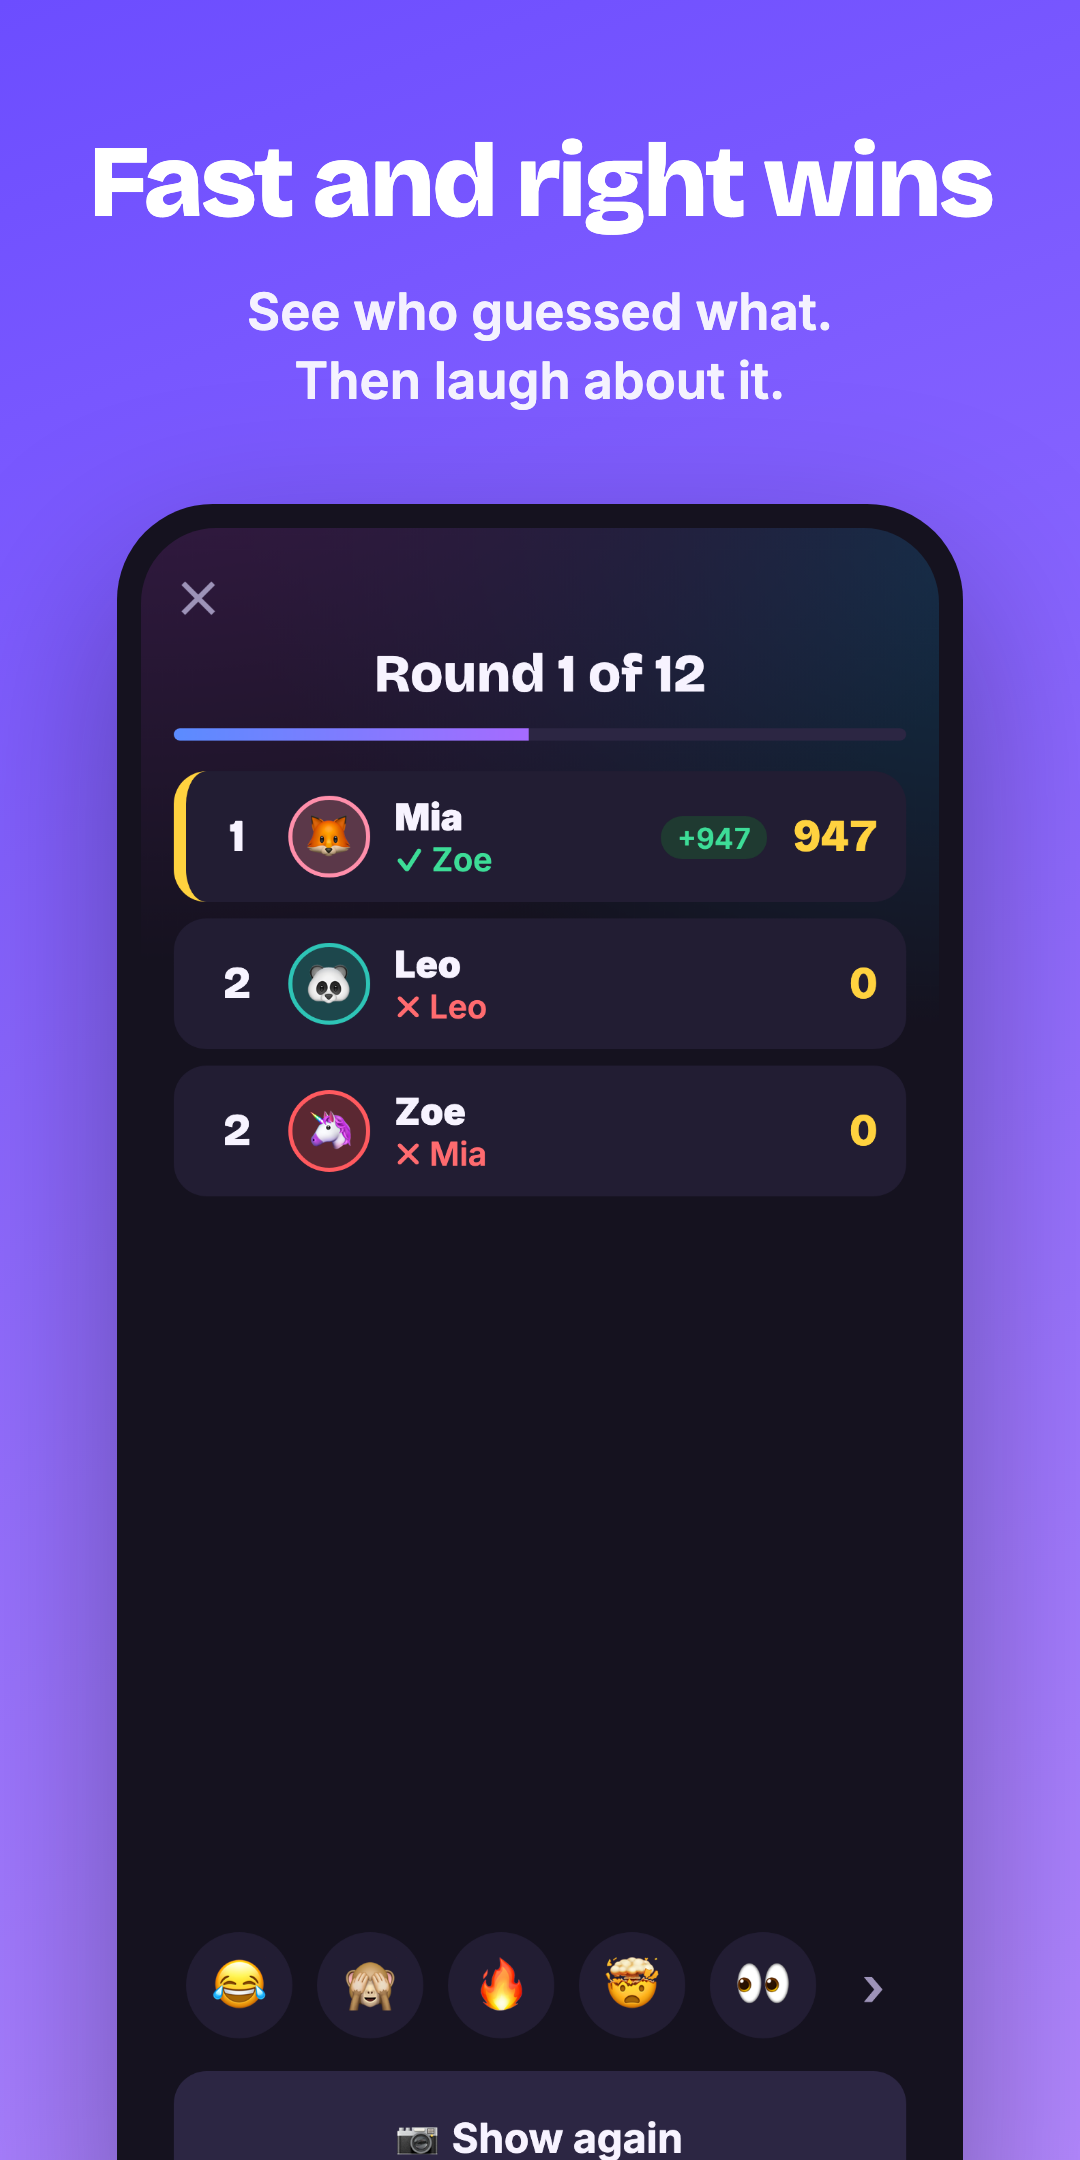
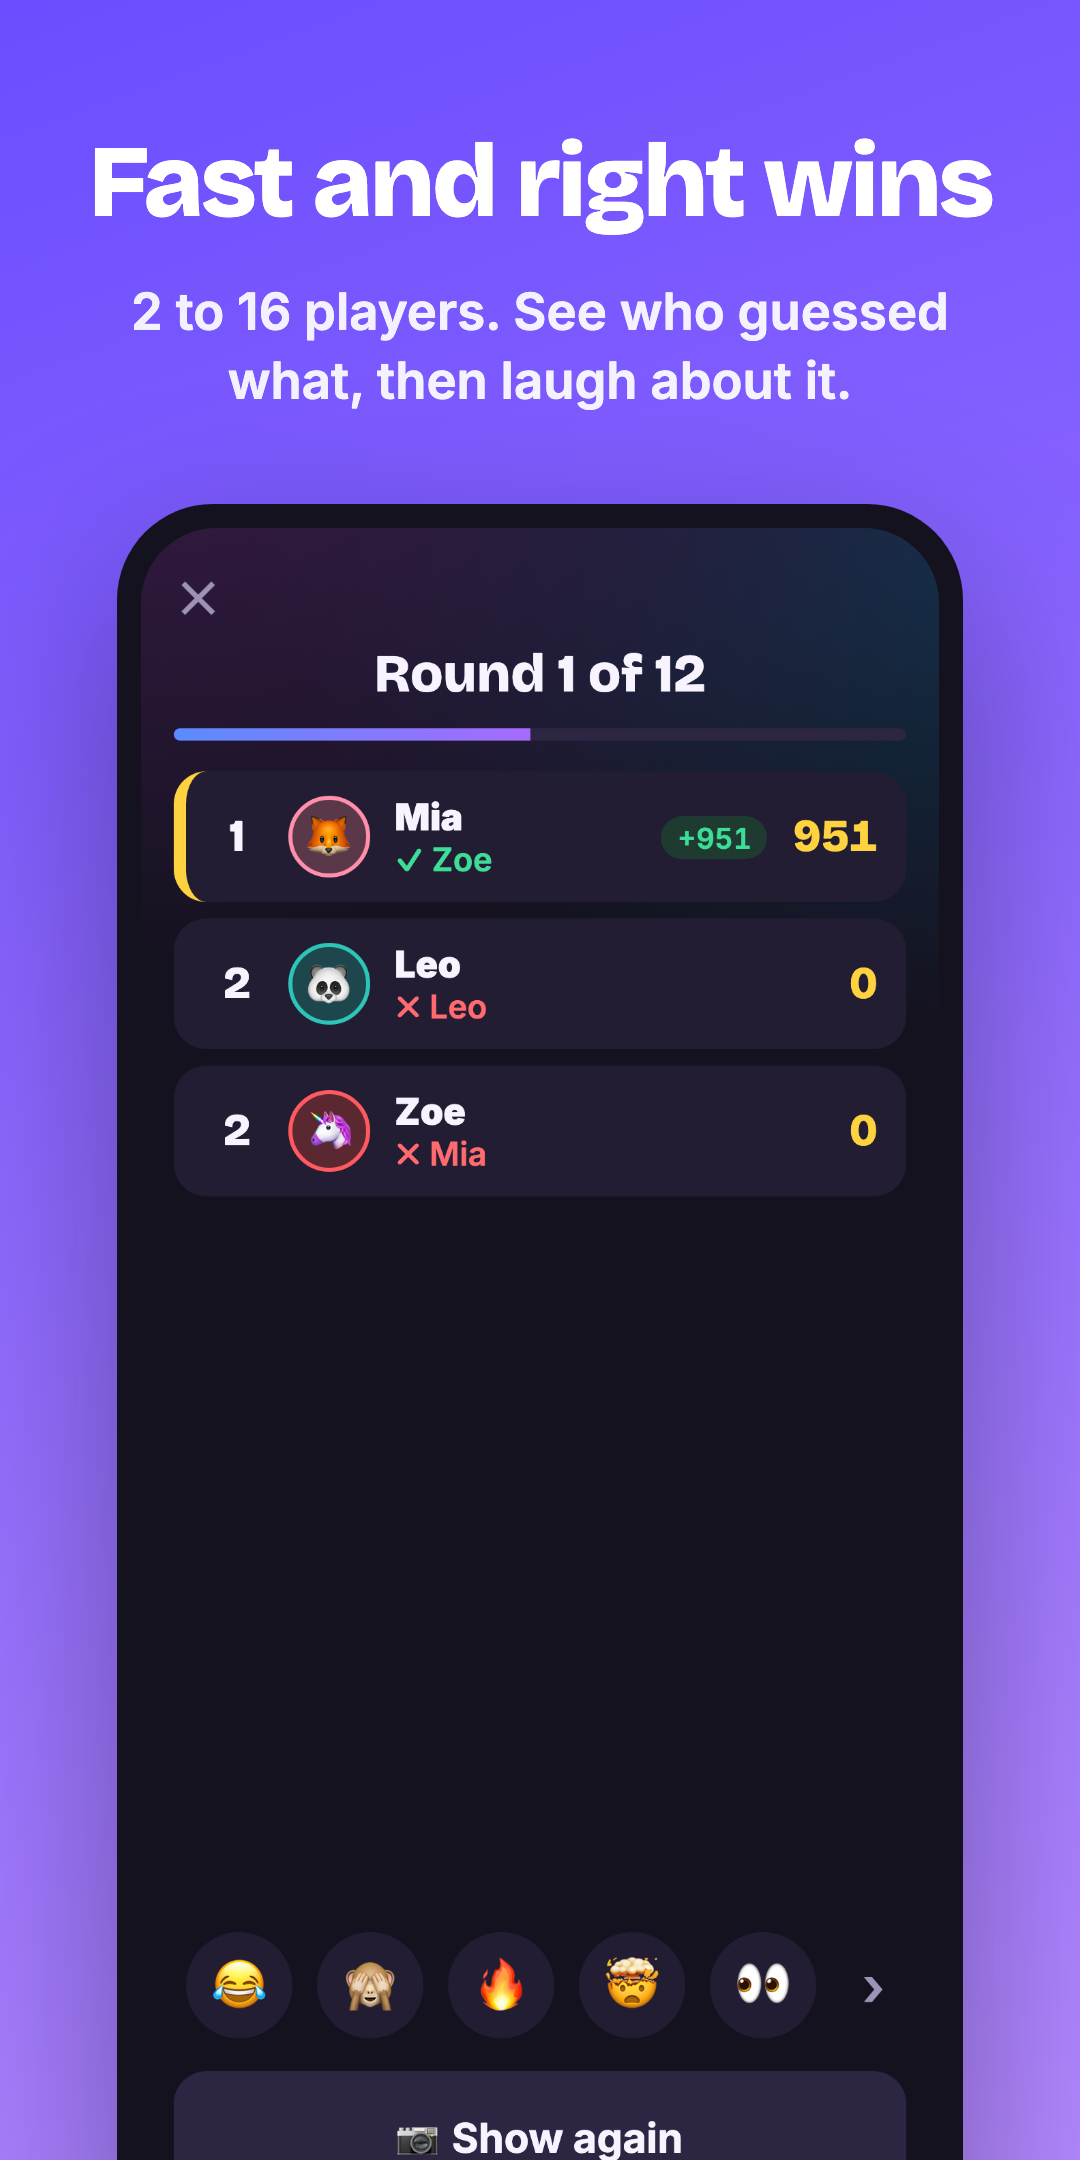
chore(store): the words players search for, honest texts, new screenshots, Gameplay Content in the privacy label
Search (researched from the App Store's search suggestions and who ranks for them): the
wide searches ("party games with friends", "group games", "game night") belong to apps
with thousands of ratings; the narrow ones a new app can lead are "photo party game",
"photo guessing game", "camera roll game" and "whose photo".

- iPhone: subtitle "Camera roll guessing game", keywords that combine with the name into
  the searches players make (friends, group, adults, night, person, play, multiplayer,
  icebreaker, phone, local...), promotional text without the "best" claim; the first
  review note no longer names test players or rounds, so it stays true for any recording.
- Android: short description "Photo guessing game for friends: guess whose phone each
  random photo came from!".
- Both: the description says "camera roll", "game nights" and "in person" where they read
  naturally, and "a guessing game for the whole table" instead of "the funniest"; the first
  and third screenshot captions say "camera rolls" and the player count (built from the
  config); the screenshots are redrawn from the 1.0.5 app. The search reasoning is in the
  header of store/android_ios_listing.js. Never another app's name.
- Privacy: the answers, points and reactions the room keeps for the game are now declared,
  as Apple's "Gameplay Content" (privacy label, ticked in App Store Connect, and the iOS
  privacy manifest, which goes into the next build) and Google's "App activity: Other
[…]

Changed region(s): [[0.1222, 0.1241, 0.8861, 0.1861], [0.7639, 0.3722, 0.825, 0.4032]]

diff --git a/store/ios_listing.js b/store/ios_listing.js
@@ -22,7 +22,7 @@
  */
 import { SERVER, TIMING } from '../web/shared/config.js';
 
-const promotionalText = 'Tonight’s best party game is already on your phones. Random photos from everyone’s camera roll, one question: whose is it?';
+const promotionalText = 'Your next party game is already on your phones: random photos from everyone’s camera roll, and one question. Whose is it?';
 
 /** One or two plain sentences about what players notice (Apple takes it only for updates). */
 const whatsNew = 'Up to 16 players and over 130 avatars. Yes is instant: your photos are sent in the background, and the 3, 2, 1 starts once every phone has the first photo. The first game asks “Is everyone here?”, and a player whose phone goes offline stays in the game, shown in red, until anyone removes them. A swapped photo turns over like a card, the leaderboard shows who overtakes whom, the scores stay hidden in the final round, and the podium reveals the winners one by one. A flagged photo is hidden for everyone at once, and the new setting “Own photo” sets the points for guessing your own photo.';
@@ -42,7 +42,7 @@ Offensive nicknames are replaced. Everyone accepts the terms (16+) before playin
 Questions and reports: whoshotit.info@gmail.com`;
 
 /** Apple's questions for new apps, answered in its order, then the test steps. */
-const reviewNotes = `1. Screen recording: attached. It was made on an iPhone with this build and starts with opening the app. It shows a whole game: creating a game, allowing photo access, removing a player, reporting a photo and the final scores. (The terms screen of the first launch, which everyone accepts before playing, was accepted just before the recording.) Leo, Max and Zoe are our own test players, run on a computer with drawn sample pictures, so one person could record a full game. The video is shortened in a few places (waiting time, iOS pop ups, rounds 6 to 11).
+const reviewNotes = `1. Screen recording: attached. It was made on an iPhone with this build and starts with opening the app. It shows a whole game: creating a game, allowing photo access, removing a player, reporting a photo and the final scores. The other players are our own test players, run on a computer with drawn sample pictures, so one person could record a whole game. Waiting time and some rounds are cut out.
 
 2. Purpose and audience: Who Shot It? is a party game for friends aged 16 and older who meet in person. Each player gets a few random photos from their own phone and decides whether to play with them. Then the photos appear one by one on every phone, and everyone guesses whose photo it is. It gives a group something fun to do together with the photos they already have. Free, no account, no ads, no purchases.
 
@@ -57,15 +57,19 @@ const reviewNotes = `1. Screen recording: attached. It was made on an iPhone wit
 ${howToTest}`;
 
 export default {
-  subtitle: 'Guess whose photo it is',
+  subtitle: 'Camera roll guessing game',
   /** Shown above the description; can change any time without a review. */
   promotionalText,
   /**
    * Search words, never shown. Commas without spaces (a space counts toward the limit).
    * Words of the name and subtitle count already, so none is repeated, and never other
-   * apps' names or trademarks (App Review guideline 2.3.7).
+   * apps' names or trademarks (App Review guideline 2.3.7). The store combines every word
+   * of the name, subtitle and keywords, so single words cover whole searches: "party games
+   * with friends", "group games for adults", "game night", "games to play in person",
+   * "local multiplayer", "icebreaker games", "guess whose photo" (why these: the search
+   * note in store/android_ios_listing.js).
    */
-  keywords: 'memories,selfie,friends,group,camera roll,gallery,pictures,quiz,trivia,multiplayer,funny,icebreaker',
+  keywords: 'friends,group,guess,whose,adults,night,person,play,multiplayer,icebreaker,phone,fun,pics,quiz,local',
   whatsNew,
   developer: 'Nils Plum',
   /** The imprint, which also names every way to reach us. */
@@ -77,12 +81,13 @@ export default {
    * The privacy label ("App Privacy"), by section of the page and Apple's data category,
    * with the data types ticked in App Store Connect: "Yes, we collect data", each type for
    * App Functionality only, not linked to the player, no tracking. The nickname and the
-   * random per-game key are Apple's "User ID".
+   * random per-game key are Apple's "User ID"; the answers, points and reactions the room
+   * keeps for the game are its "Gameplay Content".
    */
   privacy: {
     tracking: {},
     linked: {},
-    notLinked: { 'User Content': ['Photos or Videos'], Identifiers: ['User ID'] },
+    notLinked: { 'User Content': ['Photos or Videos', 'Gameplay Content'], Identifiers: ['User ID'] },
   },
   /** Seen only by Apple's reviewers, for App Review and TestFlight's beta review. */
   reviewContact: { firstName: 'Nils', lastName: 'Plum', phone: '+49 177 2438912', email: 'whoshotit.info@gmail.com' },

diff --git a/store/android_ios_listing.js b/store/android_ios_listing.js
@@ -30,22 +30,34 @@
  * the description because the first question anyone has about this game is "who sees my
  * photos?". The imprint link at the end keeps the imprint one tap from the store page
  * (German law), on Android too, where the page links only the website.
+ *
+ * Search: the words are the ones players type (the App Store's search suggestions and who
+ * ranks for them, November 2026). Wide searches like "party games with friends", "group
+ * games", "guessing games", "game night" or "games to play with friends in person" belong
+ * to apps with thousands of ratings; the narrow ones a new app can lead are "photo party
+ * game", "photo guessing game", "camera roll game" and "whose photo". So the name holds
+ * "Photo Party Game", the iPhone subtitle "Camera roll guessing game", and the texts use
+ * the wide words where they read naturally. The iPhone store searches only the name, the
+ * subtitle and the keywords (`store/ios_listing.js`); Google Play searches the name, the
+ * short description and this description, so these words matter there, never stuffed.
+ * Another app's name ("Photo Roulette", "Heads Up", "Guess Who") never appears: both stores
+ * forbid it, and it would be a trademark problem.
  */
 import { APP, LIMITS, SERVER } from '../web/shared/config.js';
 
 const description = `Your camera roll is full of stories. Time to play them.
 
-Who Shot It? turns the photos on your phones into the funniest guessing game at the table. Everyone gets a few random photos from their own phone. Then one photo after another pops up on every screen, and you race to tap whose phone it came from.
+Who Shot It? turns the photos on your phones into a guessing game for the whole table. Everyone gets a few random photos from their own camera roll. Then one photo after another pops up on every screen, and you race to tap whose phone it came from.
 
 Was that blurry pizza at 2 a.m. Lena’s? Is the 400th cat picture Ben’s? Guess fast, guess right, and the points are yours. Then the reveal. Friendships have survived worse. Probably.
 
 HOW IT WORKS
-1. One person creates a game. Friends join with a four letter code.
+1. One person creates a game. Friends join with a four letter code or a link.
 2. Everyone gets a few random photos from their phone. Don’t like them? Tap No for new ones, or tap one photo to swap just that one. Happy? Tap Yes.
 3. The photos pop up one by one. Tap who took it. Fast and right scores the most.
 
-MADE FOR PARTIES
-• ${LIMITS.minPlayers} to ${LIMITS.maxPlayers} players, best together in one room
+MADE FOR PARTIES AND GAME NIGHTS
+• ${LIMITS.minPlayers} to ${LIMITS.maxPlayers} players, best played together in person
 • Classic, or Tricky: photos start blurry, zoomed in or pixelated
 • Pick rounds, time and points, each option explained in one sentence
 • Reactions, a leaderboard between the photos, a secret final round and a podium at the end
@@ -80,9 +92,9 @@ export default {
    * short headline and one plain sentence.
    */
   screenshots: [
-    { screen: 'guess', title: 'Whose photo is it?', text: 'Random photos from everyone’s phone. Tap who took it.' },
+    { screen: 'guess', title: 'Whose photo is it?', text: 'Random photos from your friends’ camera rolls. Tap who took it.' },
     { screen: 'photos', title: 'Bring your photos', text: 'The app picks a few at random. Tap No for new ones, Yes when you like them.' },
-    { screen: 'board', title: 'Fast and right wins', text: 'See who guessed what. Then laugh about it.' },
+    { screen: 'board', title: 'Fast and right wins', text: `${LIMITS.minPlayers} to ${LIMITS.maxPlayers} players. See who guessed what, then laugh about it.` },
     { screen: 'newgame', title: 'Play it your way', text: 'Classic, or photos that start blurry, zoomed in or pixelated.' },
     { screen: 'yours', title: 'Your photos stay yours', text: 'Nothing is shared until you tap Yes. Each photo is deleted after its round.' },
   ],

diff --git a/store/android_listing.js b/store/android_listing.js
@@ -21,7 +21,7 @@
 
 export default {
   /** Under the name on the page and in search. */
-  shortDescription: 'Random photos from your friends’ phones. Guess who took them!',
+  shortDescription: 'Photo guessing game for friends: guess whose phone each random photo came from!',
   developer: 'HiveDone UG (haftungsbeschränkt)',
   /** App type Game, category Trivia; the tags as the Play Console offers them. */
   category: 'Trivia',
@@ -33,10 +33,12 @@ export default {
    * others (none), and data collected, by Google's category with its data types: each
    * collected, not processed ephemerally, required, for App functionality only. Encrypted
    * in transit; deletion on request by email (and gone after a day at the latest anyway).
+   * The answers, points and reactions the room keeps for the game are Google's "Other
+   * actions" ("gameplay, likes"), Apple's "Gameplay Content".
    */
   dataSafety: {
     shared: {},
-    collected: { 'Personal info': ['Name'], 'Photos and videos': ['Photos'], 'Device or other IDs': ['Device or other IDs'] },
+    collected: { 'Personal info': ['Name'], 'Photos and videos': ['Photos'], 'App activity': ['Other actions'], 'Device or other IDs': ['Device or other IDs'] },
     encryptedInTransit: true,
     deletionOnRequest: true,
   },

diff --git a/docs/guides/demo-players.md b/docs/guides/demo-players.md
@@ -54,7 +54,7 @@ including reporting a photo and removing a player. What worked:
    the app asks **Is everyone here?**, tap **Yes, start**.
 7. In the first round tap the flag on the photo, then **Delete photo**.
 8. Play until the podium has revealed all three places and **Play again** appears (about
-   six seconds), then stop the recording.
+   ten seconds), then stop the recording.
 9. Send it to the Mac (Photos, Share, AirDrop). Cut out waiting time and anything that is
    not the app, and save the result as `store/ios_review-video.mp4` (git-ignored: it shows
    your phone and your photos).
